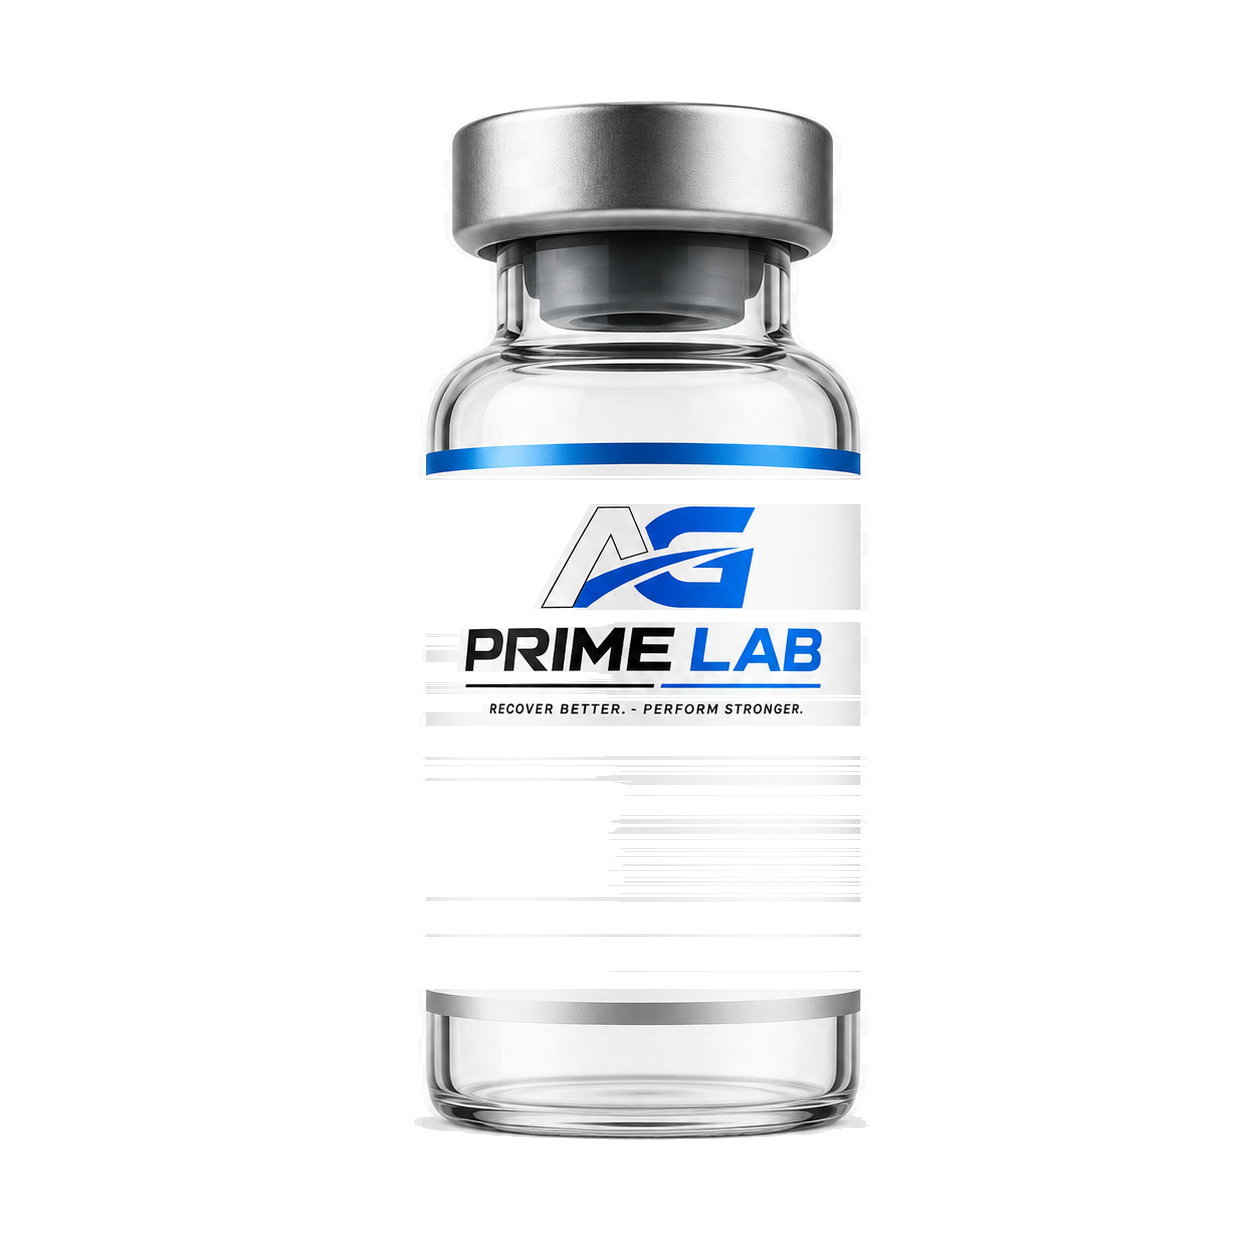
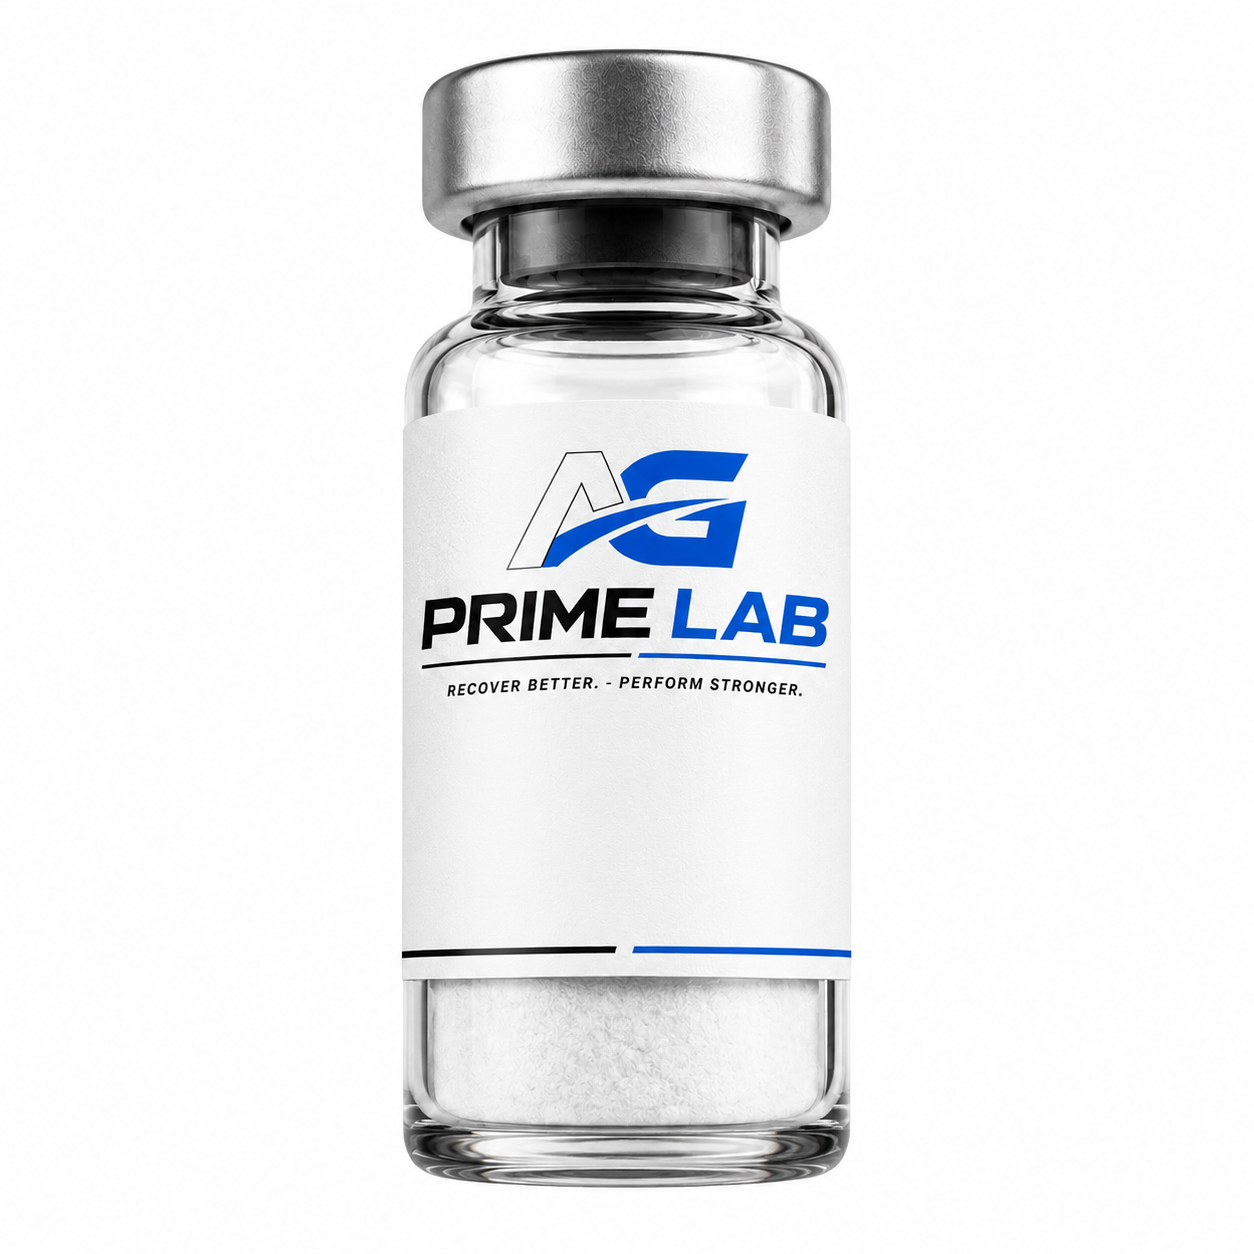
Fix AG Prime visuals and root Zelle eligibility

Changed region(s): [[0.311, 0.0311, 0.6842, 0.9641]]

diff --git a/src/pages/public/RxPlusDistributorPortal.tsx b/src/pages/public/RxPlusDistributorPortal.tsx
@@ -40,7 +40,7 @@ const OPTIMAX_PRODUCT_IMAGE_SRC = '/marketing/optimax-vial.png';
 const RONIN_LOGO_SRC = '/marketing/ronin-logo.png';
 const RONIN_PRODUCT_IMAGE_SRC = '/marketing/ronin-vial.png';
 const AG_PRIME_LOGO_SRC = '/marketing/ag-prime-lab-logo.png';
-const AG_PRIME_PRODUCT_IMAGE_SRC = '/marketing/ag-prime-lab-vial-cutout.png';
+const AG_PRIME_PRODUCT_IMAGE_SRC = '/marketing/ag-prime-lab-vial.png';
 const VYIGENIX_LOGO_SRC = '/marketing/vyigenix-logo.png';
 const VYIGENIX_PRODUCT_IMAGE_SRC = '/marketing/vyigenix-vial.png';
 
@@ -244,6 +244,7 @@ function portalProductImageSrc(
 }
 
 function ProductThumbnail({ product, imageSrc }: { product: DistributorCatalogProduct; imageSrc?: string }) {
+  const isAgPrimeImage = imageSrc === AG_PRIME_PRODUCT_IMAGE_SRC || imageSrc === '/marketing/ag-prime-lab-vial-cutout.png';
   const initials = product.product_name
     .split(/\s|\+/)
     .filter(Boolean)
@@ -262,8 +263,12 @@ function ProductThumbnail({ product, imageSrc }: { product: DistributorCatalogPr
     <div style={{
       height: imageSrc ? 132 : 96,
       borderRadius: 12,
-      background: imageSrc ? 'radial-gradient(circle at 50% 42%, rgba(37,199,217,.28), #07111f 72%)' : `linear-gradient(145deg, ${accent}22, #ffffff 60%)`,
-      border: imageSrc ? '1px solid rgba(37,199,217,.24)' : '1px solid var(--border)',
+      background: imageSrc
+        ? isAgPrimeImage
+          ? 'linear-gradient(145deg, #ffffff 0%, #f8fafc 58%, #dbeafe 100%)'
+          : 'radial-gradient(circle at 50% 42%, rgba(37,199,217,.28), #07111f 72%)'
+        : `linear-gradient(145deg, ${accent}22, #ffffff 60%)`,
+      border: imageSrc ? (isAgPrimeImage ? '1px solid rgba(0,104,217,.18)' : '1px solid rgba(37,199,217,.24)') : '1px solid var(--border)',
       display: 'flex',
       alignItems: 'center',
       justifyContent: 'center',
@@ -276,7 +281,14 @@ function ProductThumbnail({ product, imageSrc }: { product: DistributorCatalogPr
           src={imageSrc}
           alt={`${product.product_name} ${product.strength}`}
           loading="lazy"
-          style={{ width: '100%', height: '100%', objectFit: 'contain', objectPosition: 'center', padding: 8 }}
+          style={{
+            width: '100%',
+            height: '100%',
+            objectFit: isAgPrimeImage ? 'cover' : 'contain',
+            objectPosition: 'center',
+            padding: isAgPrimeImage ? 0 : 8,
+            filter: isAgPrimeImage ? 'drop-shadow(0 12px 18px rgba(15,23,42,.12))' : undefined,
+          }}
         />
       ) : (
         <>
@@ -302,8 +314,9 @@ function AgPrimeBrandShowcase() {
           <strong>Recover Better. - Perform Stronger.</strong>
         </div>
       </div>
-      <img className="agprime-brand-vial agprime-brand-vial-main" src={AG_PRIME_PRODUCT_IMAGE_SRC} alt="AG Prime Lab vial" />
-      <img className="agprime-brand-vial agprime-brand-vial-ghost" src={AG_PRIME_PRODUCT_IMAGE_SRC} alt="" aria-hidden="true" />
+      <div className="agprime-vial-frame">
+        <img className="agprime-brand-vial agprime-brand-vial-main" src={AG_PRIME_PRODUCT_IMAGE_SRC} alt="AG Prime Lab vial" />
+      </div>
     </div>
   );
 }
@@ -2016,28 +2029,35 @@ export default function RxPlusDistributorPortal() {
         .agprime-brand-showcase {
           position: relative;
           display: grid;
-          grid-template-columns: minmax(250px, 420px) minmax(128px, 190px);
-          align-items: center;
-          gap: clamp(16px, 4vw, 30px);
-          width: min(700px, 92vw);
-          min-height: 250px;
+          grid-template-columns: minmax(280px, 440px) minmax(170px, 250px);
+          align-items: stretch;
+          gap: clamp(14px, 3vw, 24px);
+          width: min(760px, 92vw);
+          min-height: 270px;
           margin: 0 0 26px;
         }
         .agprime-brand-card {
           position: relative;
           z-index: 2;
-          width: min(420px, 74vw);
-          padding: 26px 28px 24px;
-          border: 1px solid rgba(0,104,217,.16);
+          width: 100%;
+          min-height: 100%;
+          padding: clamp(20px, 3vw, 30px);
+          border: 1px solid rgba(0,104,217,.18);
           border-radius: 8px;
-          background: linear-gradient(180deg, rgba(255,255,255,.96), rgba(248,250,252,.94));
-          box-shadow: 0 26px 74px rgba(15,23,42,.14), inset 0 1px 0 rgba(255,255,255,.9);
+          background:
+            linear-gradient(180deg, rgba(255,255,255,.98), rgba(248,250,252,.96)),
+            radial-gradient(circle at 88% 12%, rgba(0,104,217,.12), transparent 34%);
+          box-shadow: 0 28px 72px rgba(15,23,42,.14), inset 0 1px 0 rgba(255,255,255,.95);
           backdrop-filter: blur(18px);
+          display: flex;
+          flex-direction: column;
+          justify-content: center;
         }
         .agprime-brand-logo {
           display: block;
           width: 100%;
           height: auto;
+          filter: drop-shadow(0 12px 18px rgba(15,23,42,.10));
         }
         .agprime-brand-line {
           height: 3px;
@@ -2063,22 +2083,32 @@ export default function RxPlusDistributorPortal() {
           font-weight: 950;
           line-height: 1.25;
         }
+        .agprime-vial-frame {
+          position: relative;
+          z-index: 1;
+          display: grid;
+          place-items: center;
+          min-height: 100%;
+          border: 1px solid rgba(0,104,217,.14);
+          border-radius: 8px;
+          background:
+            radial-gradient(circle at 50% 34%, rgba(255,255,255,.96) 0%, rgba(248,250,252,.92) 36%, rgba(219,234,254,.62) 78%),
+            linear-gradient(160deg, #ffffff 0%, #eef2f7 100%);
+          box-shadow: 0 26px 62px rgba(15,23,42,.12), inset 0 1px 0 rgba(255,255,255,.96);
+          overflow: hidden;
+        }
         .agprime-brand-vial {
           position: relative;
           z-index: 1;
           justify-self: center;
-          height: clamp(200px, 21vw, 260px);
-          max-width: 100%;
-          object-fit: contain;
-          filter: drop-shadow(0 28px 38px rgba(15,23,42,.22)) drop-shadow(0 0 26px rgba(0,104,217,.12));
+          width: 100%;
+          height: 100%;
+          object-fit: cover;
+          filter: drop-shadow(0 24px 34px rgba(15,23,42,.16));
           pointer-events: none;
         }
         .agprime-brand-vial-main {
-          grid-column: 2;
-          grid-row: 1;
-        }
-        .agprime-brand-vial-ghost {
-          display: none;
+          display: block;
         }
         .vyigenix-brand-showcase {
           position: relative;
@@ -2125,9 +2155,10 @@ export default function RxPlusDistributorPortal() {
           .agprime-cart-corner { top: 72px; right: 12px; min-height: 46px; padding: 8px 10px 8px 8px; }
           .agprime-cart-icon { width: 34px; height: 34px; font-size: 10px; }
           .agprime-cart-text strong { font-size: 13px; }
-          .agprime-brand-showcase { grid-template-columns: 1fr; width: 100%; min-height: 0; gap: 8px; }
-          .agprime-brand-card { width: min(360px, 82vw); padding: 20px; }
-          .agprime-brand-vial-main { grid-column: 1; grid-row: auto; height: 208px; margin-top: -4px; }
+          .agprime-brand-showcase { grid-template-columns: 1fr; width: 100%; min-height: 0; gap: 12px; }
+          .agprime-brand-card { width: min(380px, 88vw); min-height: auto; padding: 20px; justify-self: start; }
+          .agprime-vial-frame { width: min(250px, 70vw); height: 250px; justify-self: start; }
+          .agprime-brand-vial-main { height: 100%; margin-top: 0; }
           .vyigenix-brand-showcase { grid-template-columns: 1fr; width: 100%; min-height: 0; gap: 8px; padding-top: 8px; }
           .vyigenix-logo-panel { width: min(390px, 86vw); }
           .vyigenix-hero-vial { height: 210px; opacity: .94; justify-self: center; margin-top: -6px; }

diff --git a/src/pages/public/PaymentPage.tsx b/src/pages/public/PaymentPage.tsx
@@ -27,6 +27,24 @@ const CRYPTO_ASSETS: { value: CryptoAsset; label: string }[] = [
   { value: 'XRP',  label: 'XRP' },
 ];
 
+const PARTNER_SCOPE_CODES = new Set([
+  'AACTIVATED',
+  'AGPRIME',
+  'AGPRIME45',
+  'ALPHA45',
+  'ALPHAPRIDE',
+  'EHWSUB',
+  'ELLIEBEYER',
+  'GABE50',
+  'GUY60',
+  'MGT1111',
+  'MARK65',
+  'ROBERT',
+  'SCOTTB',
+  'VITALITYINS',
+  'VYIGENIX',
+]);
+
 export default function PaymentPage() {
   usePageMeta(
     'Complete Your Payment',
@@ -349,15 +367,51 @@ export default function PaymentPage() {
   const grandTotalCents = centsFromDollars(grandTotal);
   const checkoutScopeCode = (submission.checkout_scope_code ?? '').trim().toUpperCase();
   const sourcePortal = (submission.source_portal ?? '').trim().toLowerCase();
-  const isMainPepScriptOrder = (!checkoutScopeCode || checkoutScopeCode === 'MAIN')
-    && (!sourcePortal || sourcePortal === 'main' || sourcePortal === 'pepscriptrx' || sourcePortal === 'root')
-    && !submission.store_slug
-    && !submission.referral_code;
+  const hasNonMainScope = Boolean(checkoutScopeCode && checkoutScopeCode !== 'MAIN');
+  const hasKnownPartnerScope = Boolean(hasNonMainScope && PARTNER_SCOPE_CODES.has(checkoutScopeCode));
+  const hasPartnerStorefrontAttribution = Boolean(submission.store_slug || submission.referral_code || hasNonMainScope);
+  const isRootSource = !sourcePortal || sourcePortal === 'main' || sourcePortal === 'pepscriptrx' || sourcePortal === 'root';
+  const isRootOrder = !hasPartnerStorefrontAttribution
+    && isRootSource
+    && (!checkoutScopeCode || checkoutScopeCode === 'MAIN');
+  const isUnderZelleCap = grandTotalCents > 0 && grandTotalCents <= zelleConfig.lowRiskMaxCents;
+  const zelleRecipientPresent = Boolean(zelleConfig.recipientValue);
+  const zelleHiddenReasons = [
+    zelleConfig.enabled ? null : 'NEXT_PUBLIC_ZELLE_ENABLED is false',
+    isRootOrder ? null : 'order is not MAIN/root or has partner attribution',
+    hasKnownPartnerScope ? `partner scope ${checkoutScopeCode}` : null,
+    hasNonMainScope && !hasKnownPartnerScope ? `non-main scope ${checkoutScopeCode}` : null,
+    submission.store_slug ? `store_slug ${submission.store_slug}` : null,
+    submission.referral_code ? `referral_code ${submission.referral_code}` : null,
+    isRootSource ? null : `source_portal ${submission.source_portal ?? '(missing)'}`,
+    grandTotalCents > 0 ? null : 'total is zero or missing',
+    grandTotalCents <= zelleConfig.lowRiskMaxCents ? null : `total ${grandTotalCents} exceeds cap ${zelleConfig.lowRiskMaxCents}`,
+    zelleRecipientPresent ? null : 'frontend recipient value missing; backend will still validate on intent create',
+  ].filter(Boolean) as string[];
   const zelleEligible = zelleConfig.enabled
-    && isMainPepScriptOrder
-    && grandTotalCents > 0
-    && grandTotalCents <= zelleConfig.lowRiskMaxCents;
-  const zelleOverLimit = zelleConfig.enabled && isMainPepScriptOrder && grandTotalCents > zelleConfig.lowRiskMaxCents;
+    && isRootOrder
+    && isUnderZelleCap;
+  const zelleDebug = {
+    order_id: submission.id,
+    source_portal: submission.source_portal ?? null,
+    store_slug: submission.store_slug ?? null,
+    scope: submission.checkout_scope_code ?? null,
+    rep_referral_code: submission.referral_code ?? null,
+    cart_subtotal_cents: grandTotalCents,
+    isRootOrder,
+    isUnderZelleCap,
+    NEXT_PUBLIC_ZELLE_ENABLED: String(zelleConfig.enabled),
+    recipient_display_name: zelleConfig.displayName || null,
+    recipient_value_present: zelleRecipientPresent,
+    zelleEligible,
+    hidden_reason: zelleEligible ? null : zelleHiddenReasons.join('; '),
+  };
+  const showZelleDebug = typeof window !== 'undefined'
+    && new URLSearchParams(window.location.search).get('zelle_debug') === '1';
+  if (typeof window !== 'undefined' && (showZelleDebug || import.meta.env.DEV)) {
+    window.console.info('[PepScriptRX Zelle eligibility]', zelleDebug);
+  }
+  const zelleOverLimit = zelleConfig.enabled && isRootOrder && grandTotalCents > zelleConfig.lowRiskMaxCents;
   const activeZelleIntent = zelleIntent && ['pending', 'sent', 'needs_info'].includes(zelleIntent.status);
 
   return (
@@ -426,6 +480,17 @@ export default function PaymentPage() {
                 </div>
               </div>
             </div>
+
+            {showZelleDebug && (
+              <div className="card" style={{ border: '1px solid #f59e0b', background: '#fffbeb' }}>
+                <div className="card-body">
+                  <div className="card-title" style={{ color: '#92400e' }}>Zelle Debug</div>
+                  <pre style={{ whiteSpace: 'pre-wrap', wordBreak: 'break-word', fontSize: 12, color: '#78350f', marginTop: 12 }}>
+                    {JSON.stringify(zelleDebug, null, 2)}
+                  </pre>
+                </div>
+              </div>
+            )}
 
             {/* Shipping address */}
             {submission.shipping_address && (

diff --git a/supabase/functions/zelle-payment/index.ts b/supabase/functions/zelle-payment/index.ts
@@ -11,7 +11,6 @@ const ZELLE_RECIPIENT_VALUE = Deno.env.get('NEXT_PUBLIC_ZELLE_RECIPIENT_VALUE') 
 const ZELLE_TTL_MINUTES = numberEnv('ZELLE_INTENT_TTL_MINUTES', '', 30);
 const ZELLE_LOW_RISK_MAX_CENTS = numberEnv('ZELLE_LOW_RISK_MAX_CENTS', 'NEXT_PUBLIC_ZELLE_LOW_RISK_MAX_CENTS', 50000);
 const PAYMENT_PROOFS_BUCKET = Deno.env.get('PAYMENT_PROOFS_BUCKET') ?? 'payment-proofs';
-
 const corsHeaders = {
   'Access-Control-Allow-Origin': '*',
   'Access-Control-Allow-Headers': 'authorization, content-type',
@@ -344,10 +343,12 @@ async function expireIntent(db: DbClient, intentId: string, orderId: string) {
 function isMainCheckout(sub: Record<string, unknown>) {
   const scope = String(sub.checkout_scope_code ?? '').trim().toUpperCase();
   const source = String(sub.source_portal ?? '').trim().toLowerCase();
+  const hasNonMainScope = Boolean(scope && scope !== 'MAIN');
   return (!scope || scope === 'MAIN')
     && (!source || source === 'main' || source === 'pepscriptrx' || source === 'root')
     && !sub.store_slug
-    && !sub.referral_code;
+    && !sub.referral_code
+    && !hasNonMainScope;
 }
 
 async function audit(db: DbClient, orderId: string, intentId: string, actorType: string, eventType: string, eventPayload: Record<string, unknown>, actorProfileId?: string) {
